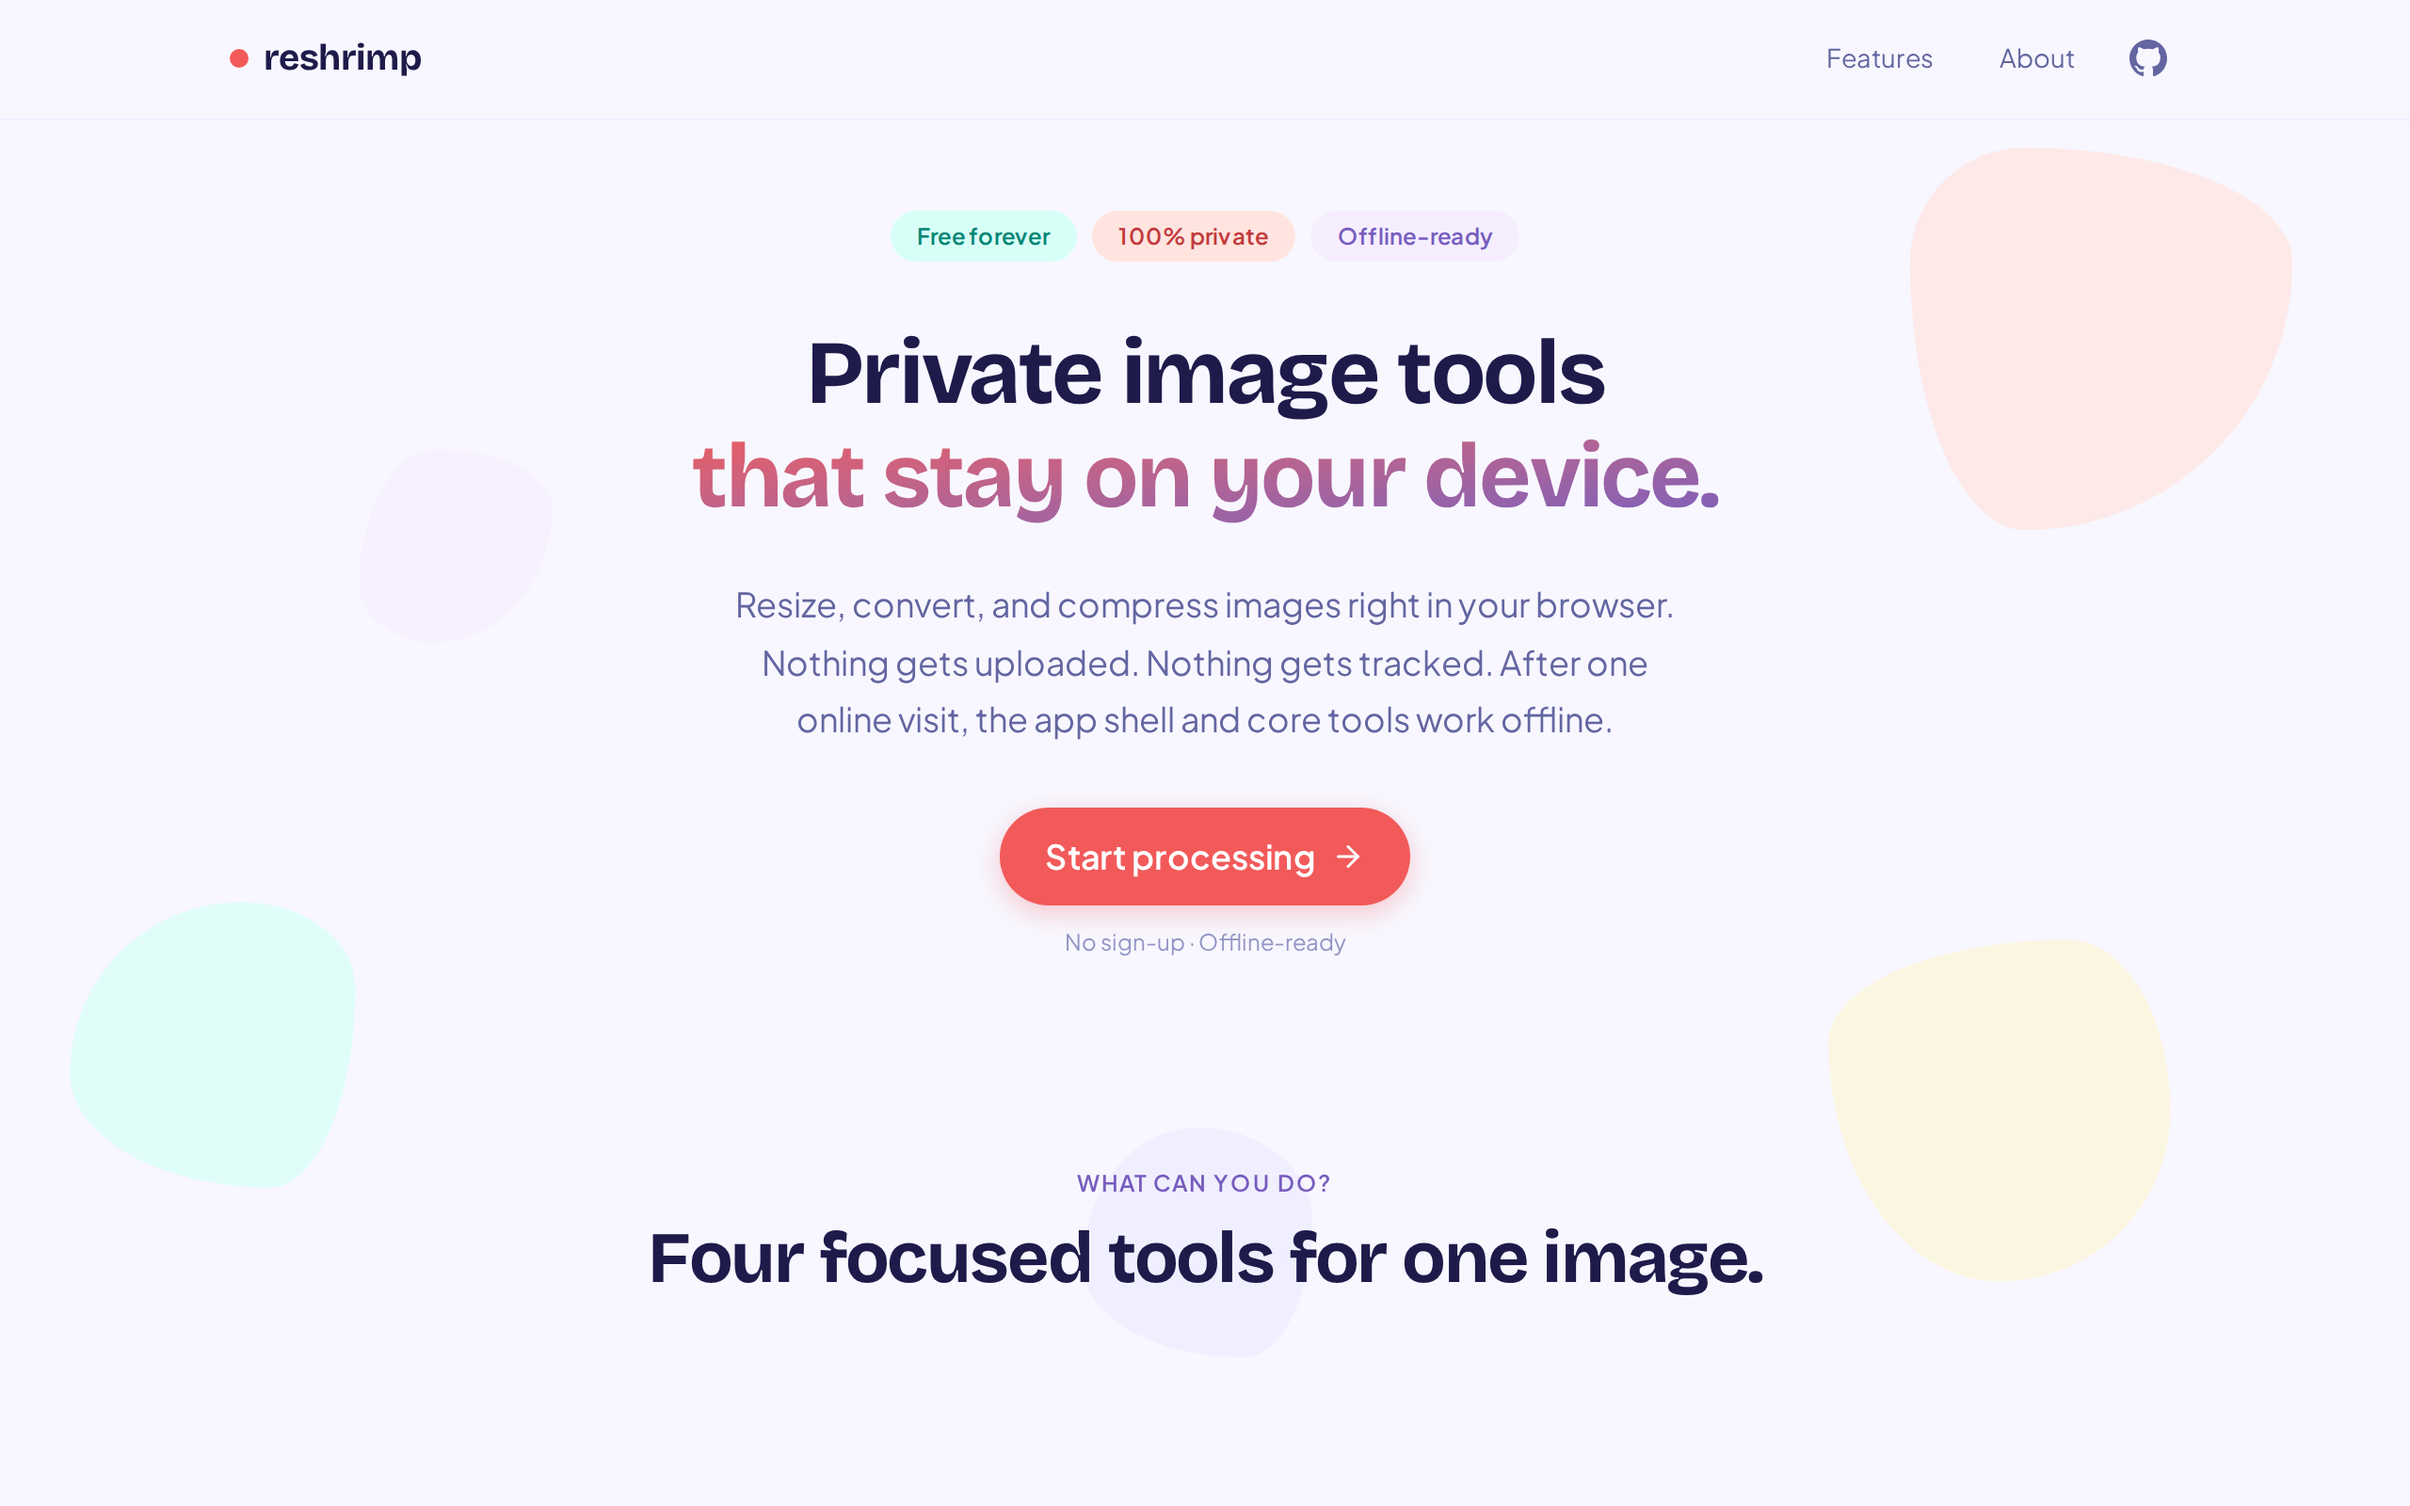
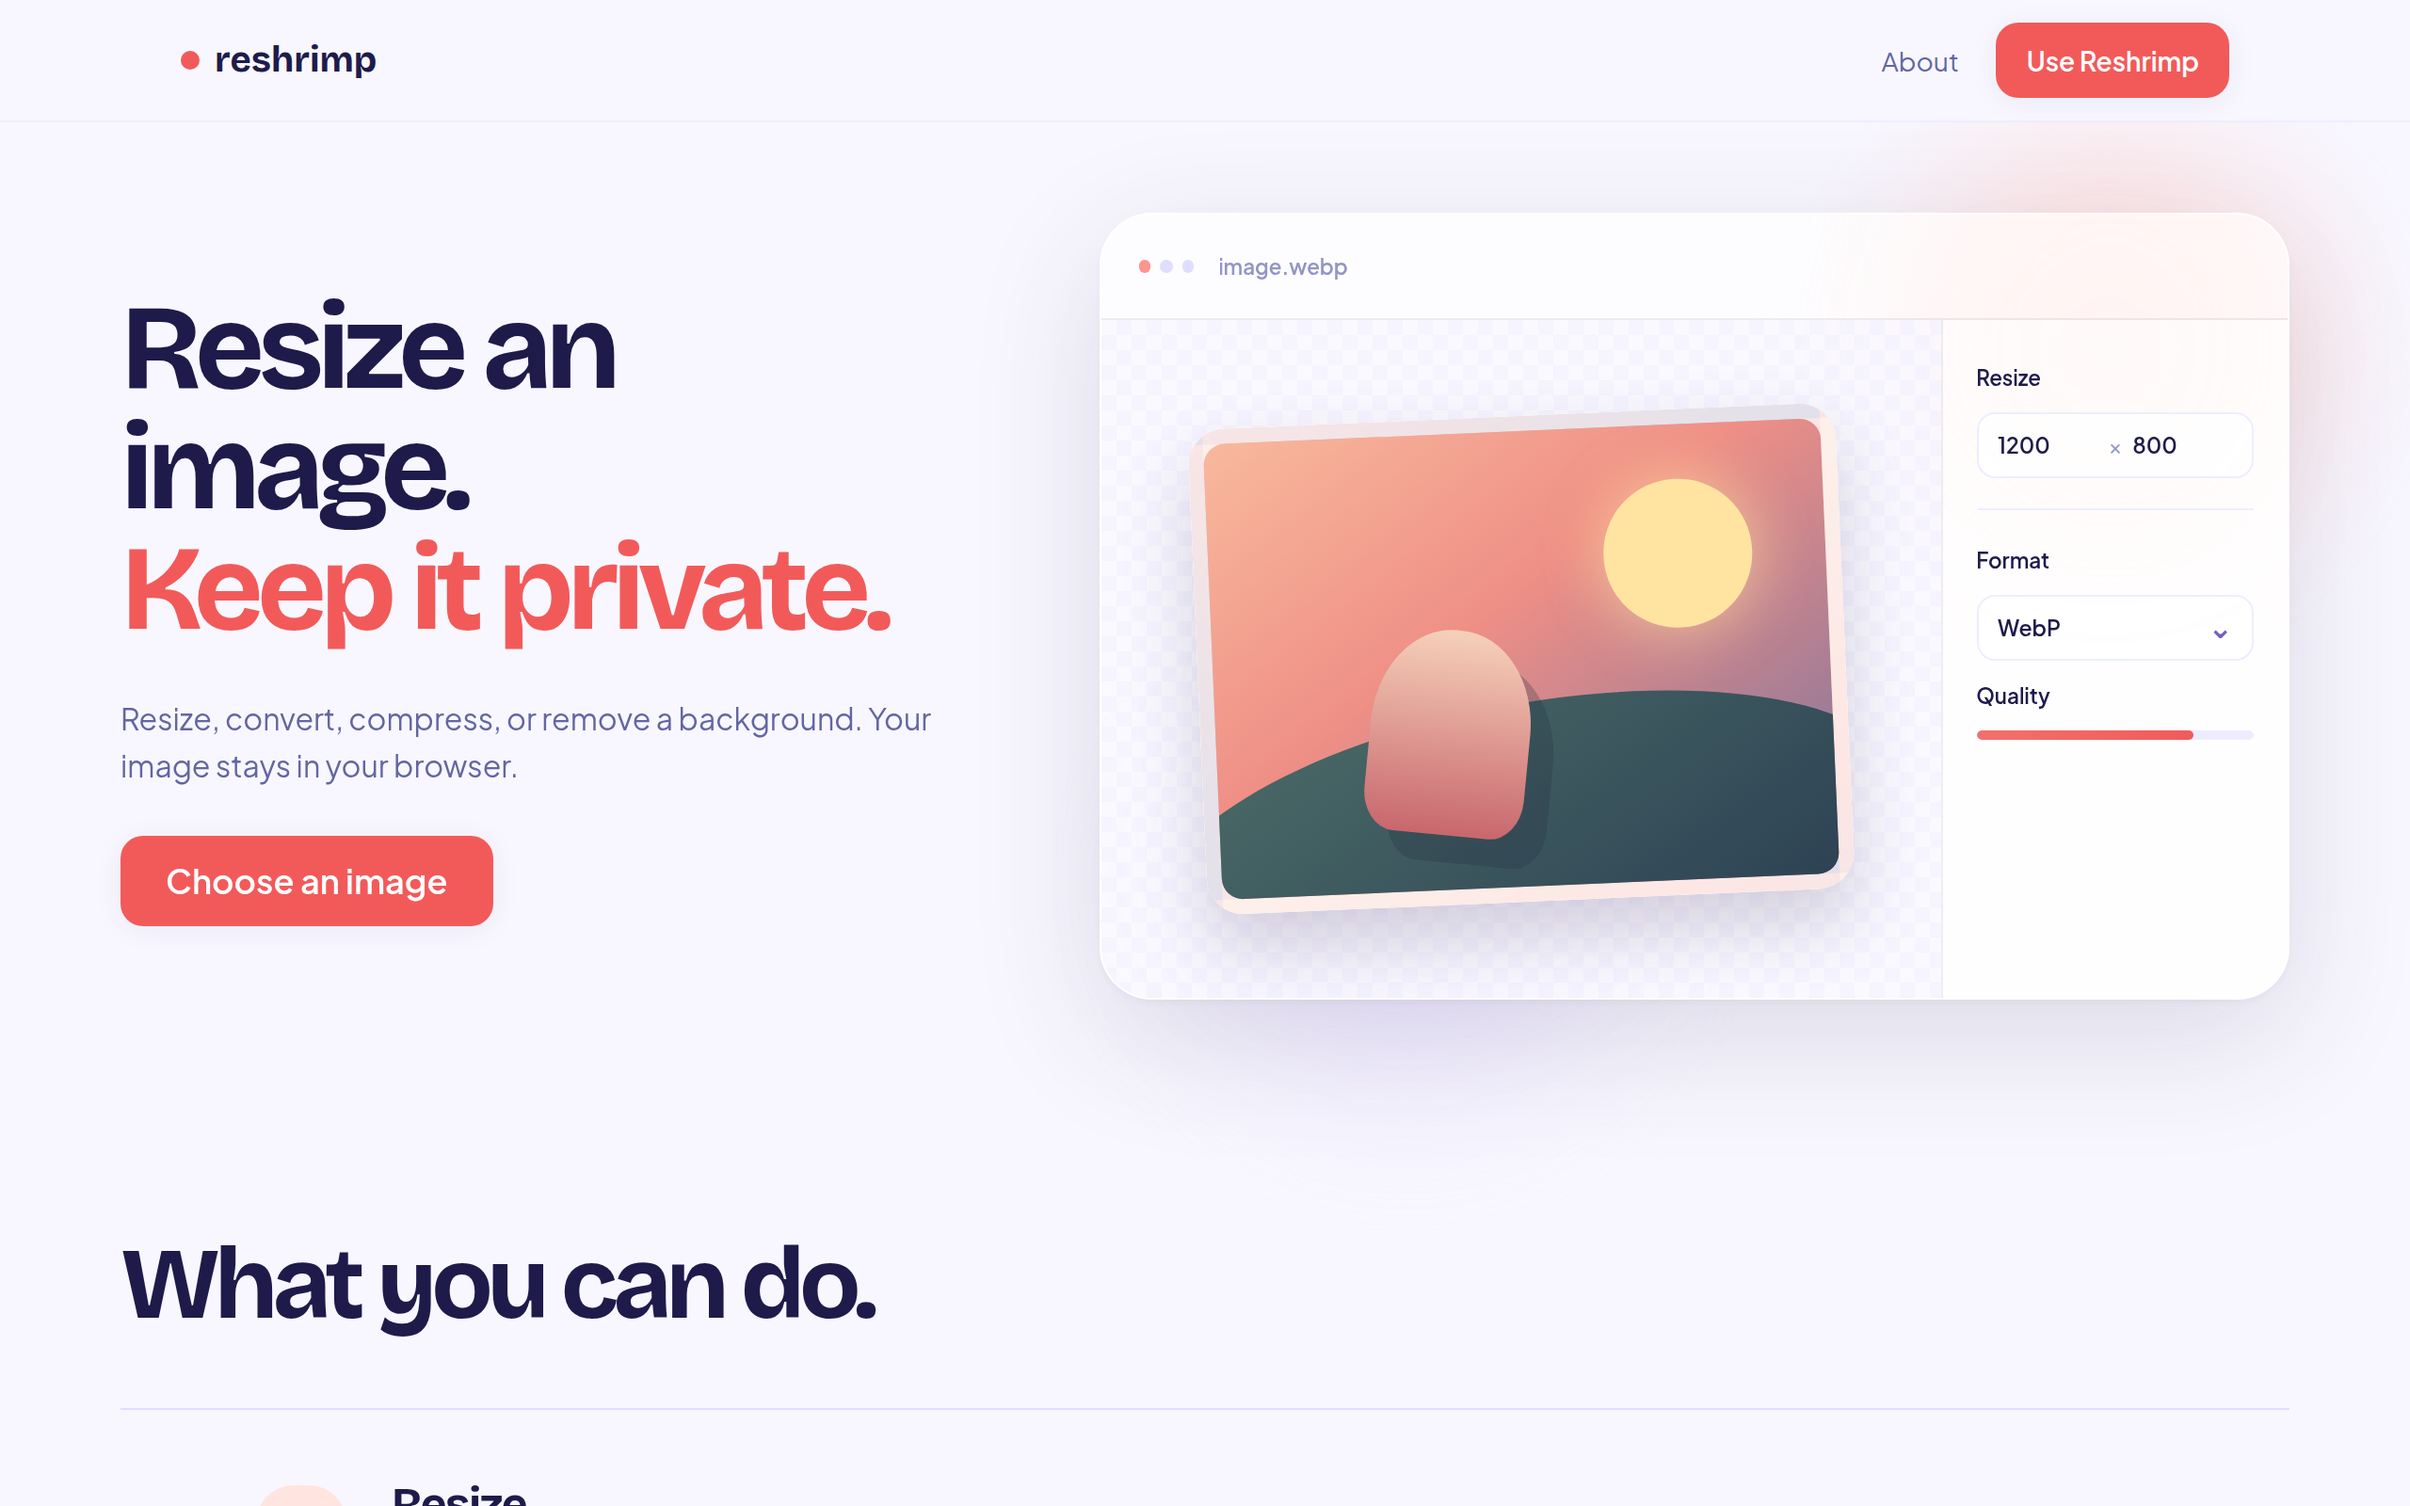
fix: refresh Reshrimp project screenshot (#314)

diff --git a/CHANGELOG.md b/CHANGELOG.md
@@ -8,6 +8,8 @@ All notable changes to this site are documented in this file.
 
 - Update Interleaf's project links to `www.interleaf.cc` and replace its
   screenshot with the redesigned production landing page.
+- Replace Reshrimp's project screenshot with its redesigned production
+  landing page.
 
 ### Changed — 2026-09-11
 
